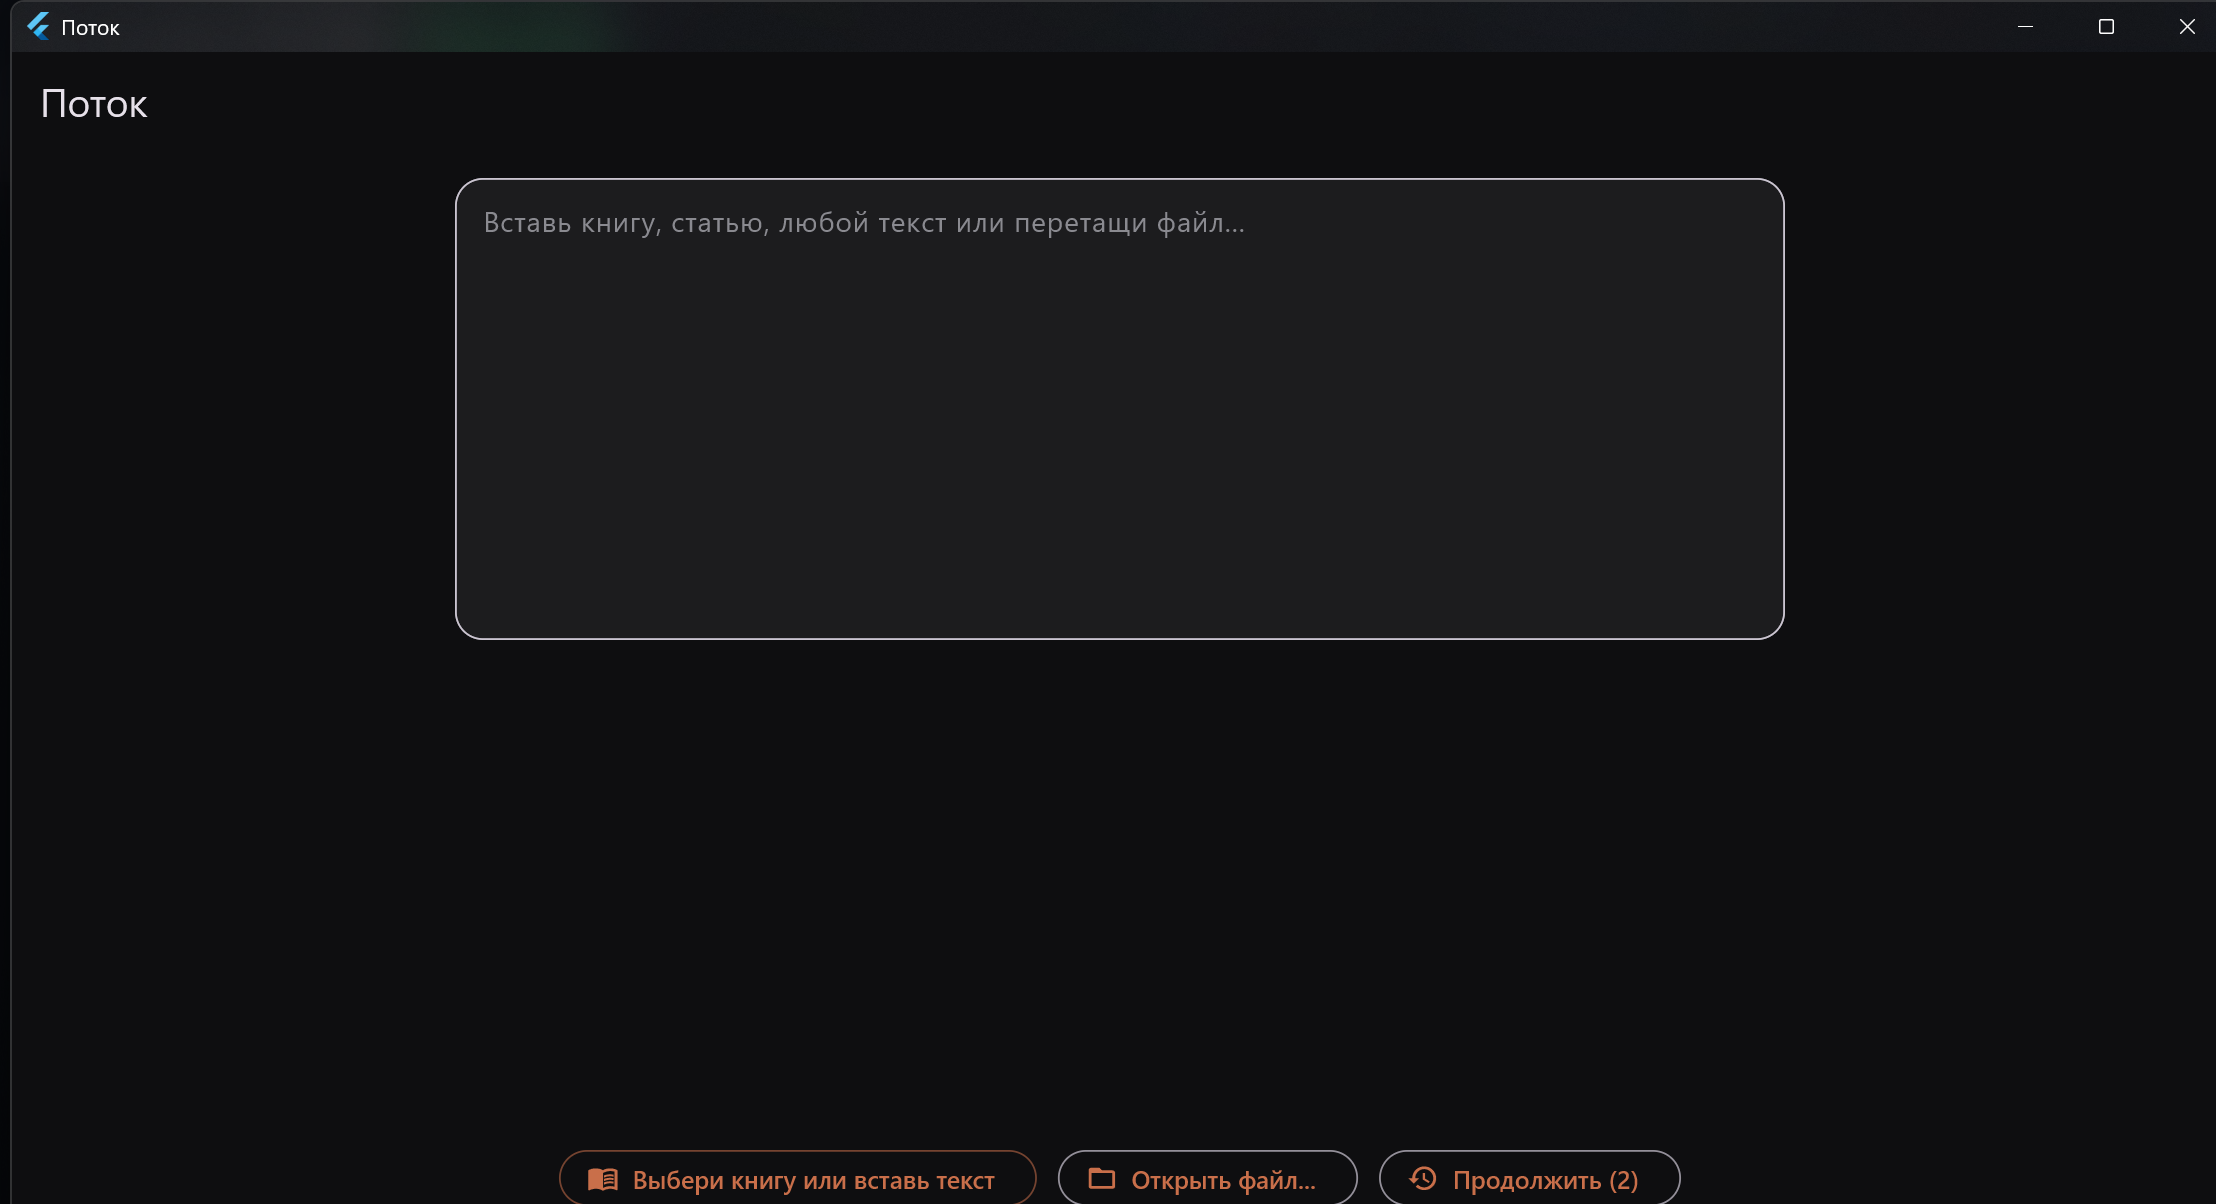
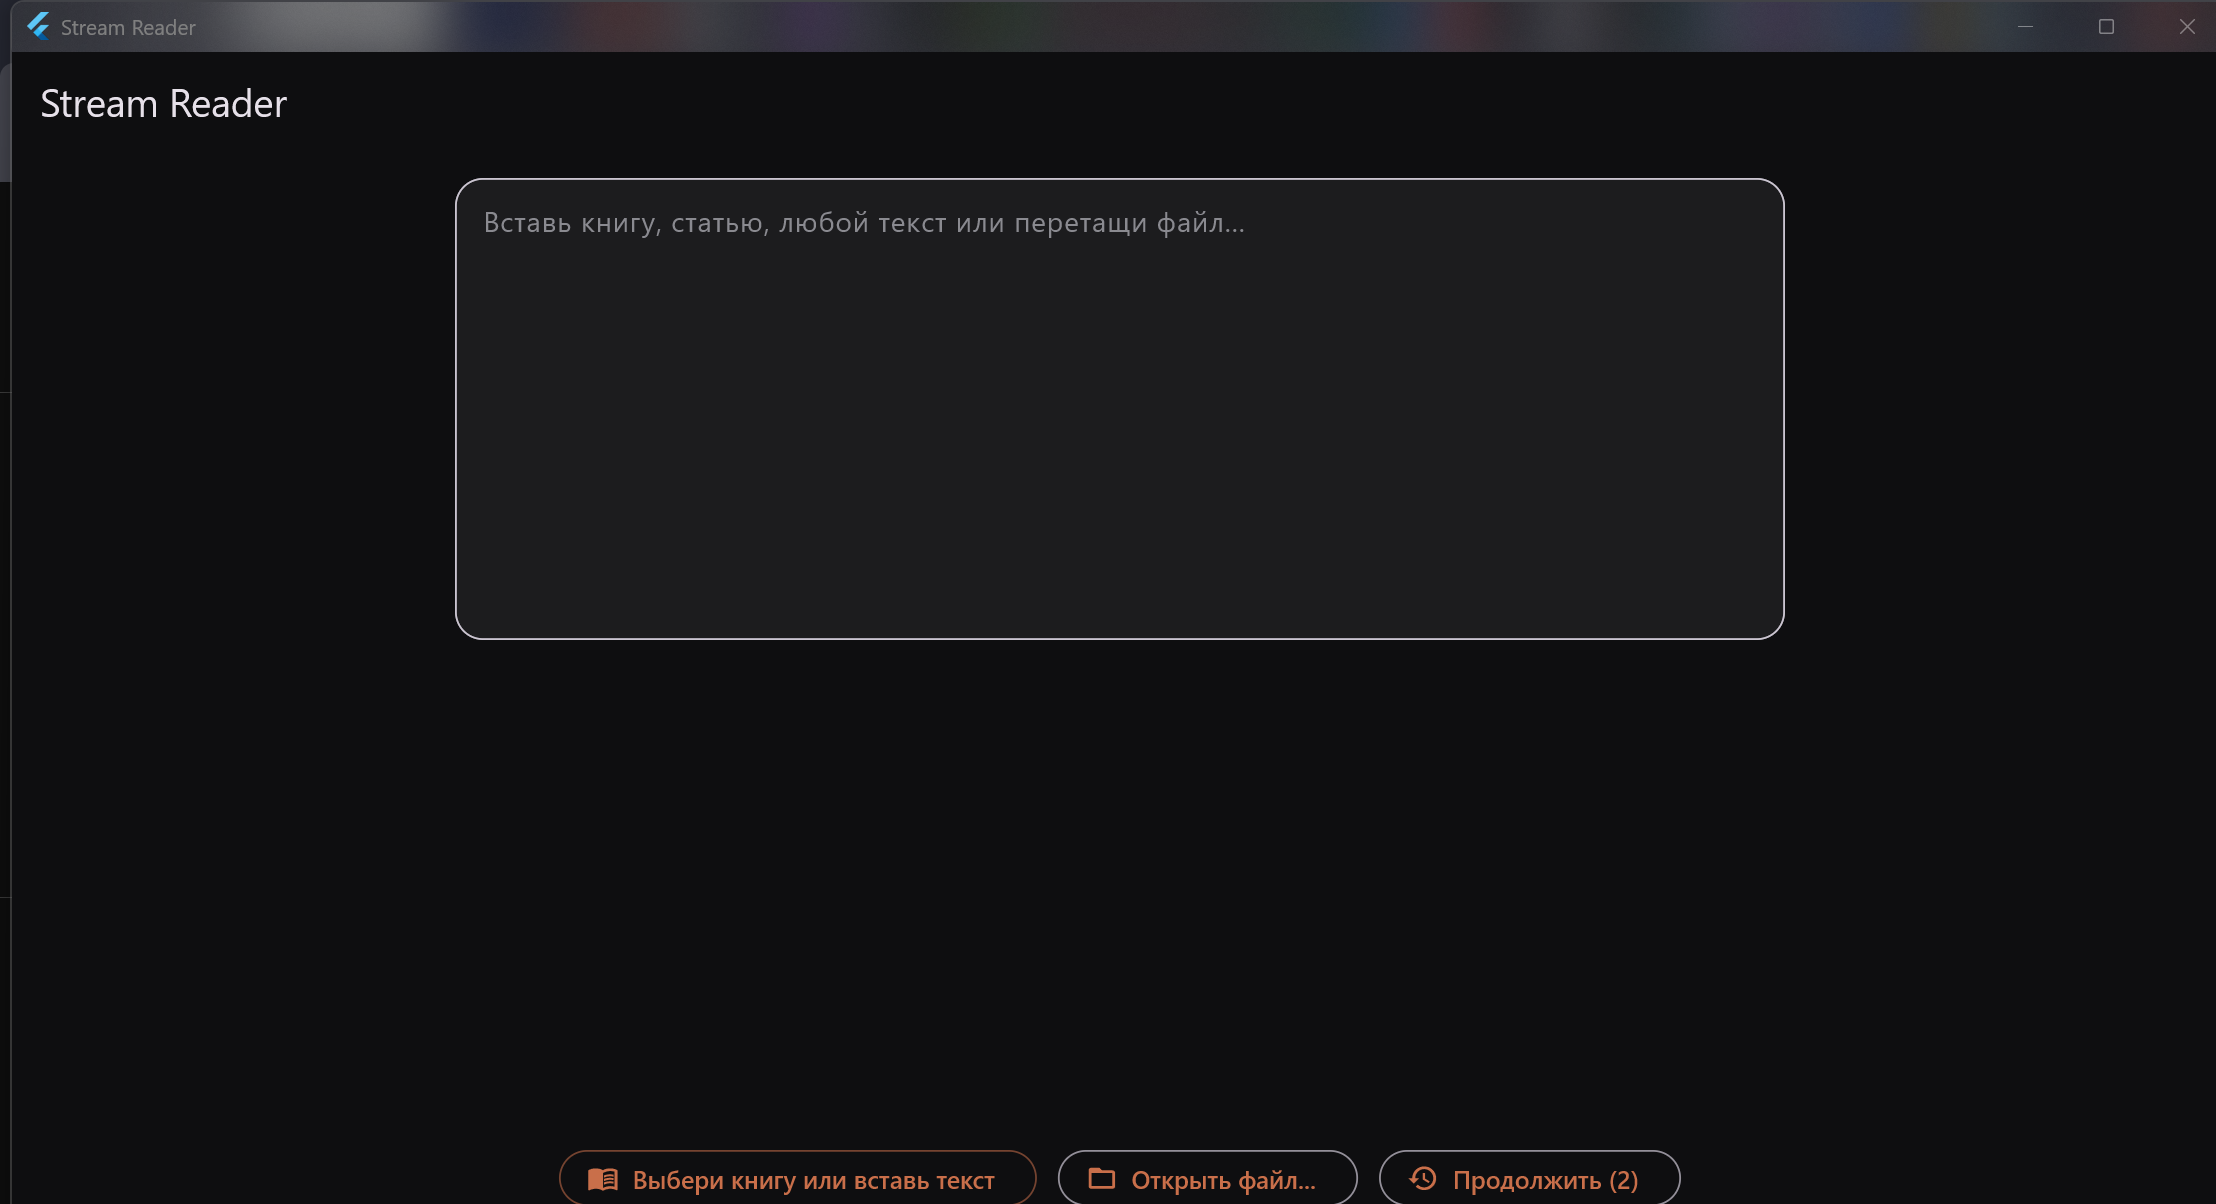
Rename to Stream Reader, v1.0.30

Changed region(s): [[0.4359, 0.0, 1.0, 0.0615], [0.0, 0.0, 0.4048, 0.1537]]

diff --git a/lib/main.dart b/lib/main.dart
@@ -23,7 +23,7 @@ String _detectedLang() {
 }
 
 const Map<String, String> _trRu = {
-  'appName': 'Поток',
+  'appName': 'Stream Reader',
   'continueTitle': 'ПРОДОЛЖИТЬ ЧТЕНИЕ',
   'emptyList': 'Список пуст.',
   'word': 'слово',
@@ -78,7 +78,7 @@ const Map<String, String> _trRu = {
 };
 
 const Map<String, String> _trEn = {
-  'appName': 'Flow',
+  'appName': 'Stream Reader',
   'continueTitle': 'RESUME READING',
   'emptyList': 'List is empty.',
   'word': 'word',
@@ -133,7 +133,7 @@ const Map<String, String> _trEn = {
 };
 
 const Map<String, String> _trDe = {
-  'appName': 'Flow',
+  'appName': 'Stream Reader',
   'continueTitle': 'WEITERLESEN',
   'emptyList': 'Liste ist leer.',
   'word': 'Wort',
@@ -188,7 +188,7 @@ const Map<String, String> _trDe = {
 };
 
 const Map<String, String> _trPl = {
-  'appName': 'Flow',
+  'appName': 'Stream Reader',
   'continueTitle': 'KONTYNUUJ CZYTANIE',
   'emptyList': 'Lista jest pusta.',
   'word': 'słowo',

diff --git a/windows/runner/main.cpp b/windows/runner/main.cpp
@@ -27,7 +27,7 @@ int APIENTRY wWinMain(_In_ HINSTANCE instance, _In_opt_ HINSTANCE prev,
   FlutterWindow window(project);
   Win32Window::Point origin(10, 10);
   Win32Window::Size size(1280, 720);
-  if (!window.Create(L"potok", origin, size)) {
+  if (!window.Create(L"Stream Reader", origin, size)) {
     return EXIT_FAILURE;
   }
   window.SetQuitOnClose(true);

diff --git a/README.md b/README.md
@@ -1,6 +1,6 @@
-# Поток / Flow
+# Stream Reader (Поток)
 
-RSVP speed-reading app: words are shown one at a time at a fixed focal point, so your eyes never move. Built with Flutter, one screen, no accounts, works offline.
+Stream Reader is an RSVP speed-reading app: words are shown one at a time at a fixed focal point, so your eyes never move. Built with Flutter, one screen, no accounts, works offline.
 
 **Languages:** Russian, English, German, Polish (follows the system language).
 

diff --git a/CHANGELOG.md b/CHANGELOG.md
@@ -1,5 +1,9 @@
 # Changelog
 
+## 1.0.30
+
+- Renamed to Stream Reader (app title, Android label, Windows window title)
+
 ## 1.0.29
 - Localization: English, German, Polish added; the app follows the system language (Russian is the fallback).
 - Materials for publishing on GitHub: README, LICENSE, CHANGELOG, CI workflow.
